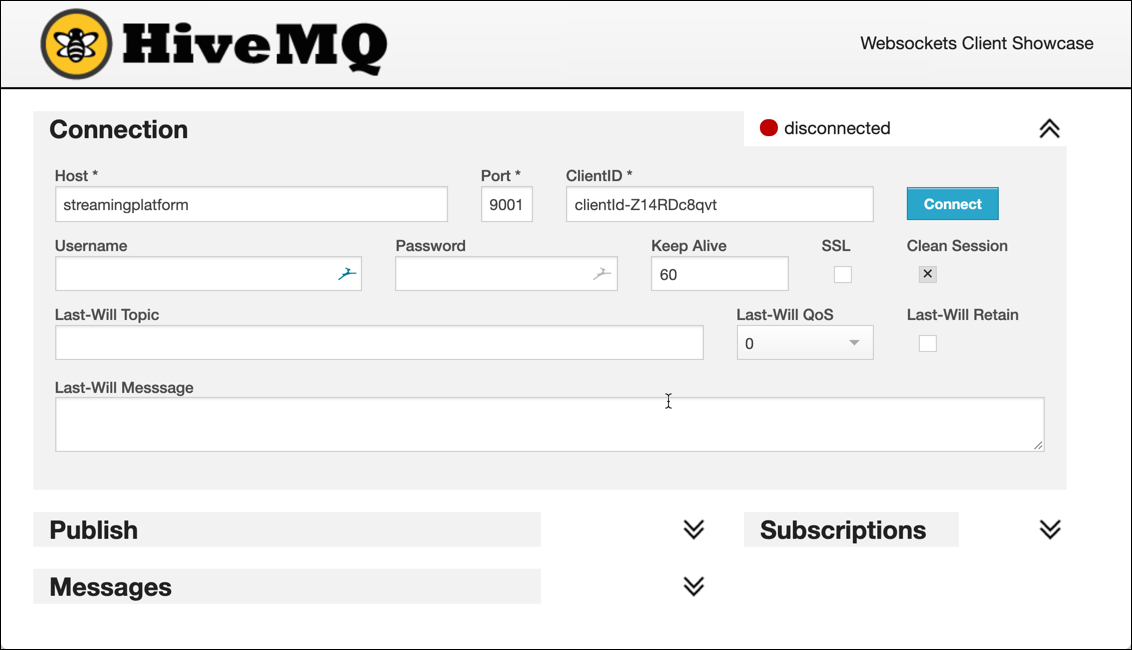
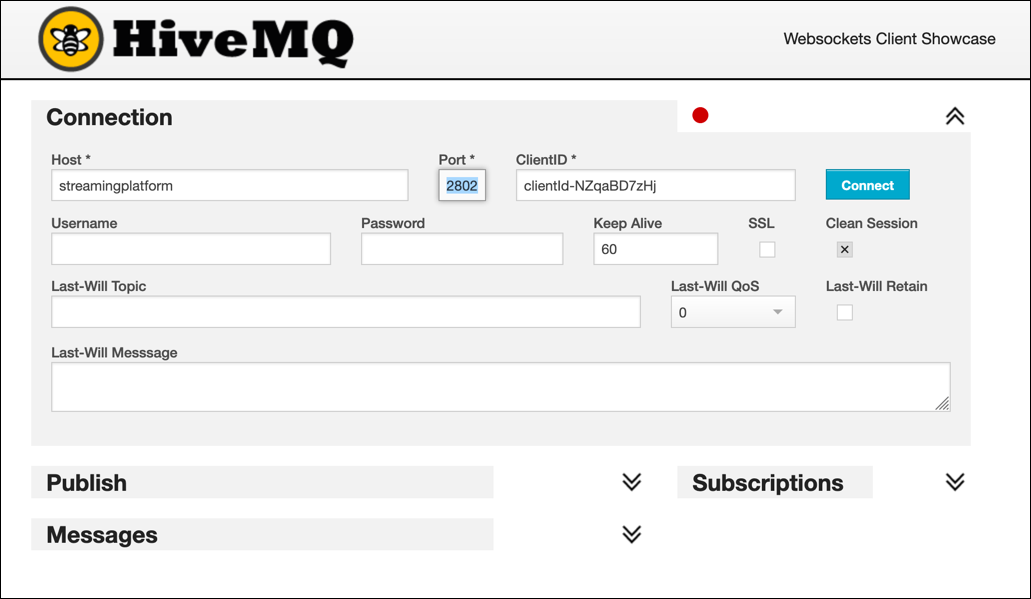
update

diff --git a/09-iot-data-ingestion-over-mqtt/README.md b/09-iot-data-ingestion-over-mqtt/README.md
@@ -7,19 +7,9 @@ The following diagram shows the setup of the data flow we will be implementing.
 
 We will not be using any real-life data, but have a program simulating some drivers and their trucks.
 
-## Adding the necessary additional services to the environment
+Our **Streaming Platform** does already provide all the services we need in this workshop, such as an **MQTT broker** and of course **Apache Kafka**. 
 
-Our **Streaming Platform** does not yet provide all the services we need in this workshop, such as an **MQTT broker**.
-
-Create a file `docker-compose.override.yml` in the `docker` folder (the same place where the `docker-compose.yml` is) and add the version and services header:
-
-```
-version: "2.0"
-
-services:
-```
-
-Now let's add the MQTT broker. Add the following two services to the `docker-compose.override.yml` file. 
+The services related to mqtt are `mosquitto-1` an easy to use MQTT broker, belonging to the [Eclipse project](https://mosquitto.org/) and `mqtt-ui`, a UI to browse into any MQTT broker. 
 
 ```
   mosquitto-1:
@@ -41,12 +31,7 @@ Now let's add the MQTT broker. Add the following two services to the `docker-com
       - "28082:80"
 ```
 
-[Mosquitto](https://mosquitto.org/) is an easy to use MQTT broker, belonging to the Eclipse project. There is a docker image available for us on Docker Hub. Just make sure that the service is configured in the `docker-compose.yml` with the volume mapping as shown below.
-Additionally, if you want to use the MQTT UI later in the workshop, you have to add it as another service (`mqtt-ui`). 
-
-Mosquitto needs to be configured, before we can use it. That's why we use the volume mapping above, to map the file `./conf/mosquitto-1.conf` into the `mosquitto-1` container. 
-
-Create a folder `conf` below the `docker` folder and in there create the `mosquitto-1.conf` file with the following content:
+The configuration of mosquitto can be found in the  `./conf/mqtt/mosquitto-1.conf` file, which is volume mapped into the `mosquitto-1` container:
 
 ```
 persistence true
@@ -58,15 +43,8 @@ listener 9001
 protocol websockets
 ```
 
-With Docker Compose, you can easily later add some new services, even if the platform is currently running. If you redo a `docker-compose up -d`, Docker Compose will check if there is a delta between what is currently running and what the `docker-compose.yml` + the 'docker-compose.override.yml` file tells. 
-
-If there is a new service added, such as here with **Mosquitto**, Docker Compose will start the service, leaving the other, already running services untouched. 
-
-If you change configuration on an already running service, then Docker will recreate that service applying the new settings. 
-
-However, removing a service from the `docker-compose.yml` will not cause a running service to be stopped and removed. You have to do that manually. 
-
 ### Using an MQTT Client
+
 In order to be able to see what we are producing into MQTT, we need something similar to the `kafkacat` and `kafka-console-consumer` utilities. 
 
 In this workshop we show two options for consuming from MQTT
@@ -79,14 +57,14 @@ In this workshop we show two options for consuming from MQTT
 To start consuming using through a command line, perform the following docker command:
 
 ```
-docker run -it --rm efrecon/mqtt-client sub -h $DOCKER_HOST_IP -t "truck/+/position" -v
+docker run -it --rm efrecon/mqtt-client sub -h $DOCKER_HOST_IP -p 28100 -t "truck/+/position" -v
 ```
 
 The consumed messages will show up in the terminal.
 
 #### Using HiveMQ Web UI  
 
-To start consuming using the MQTT UI ([HiveMQ Web UI](https://www.hivemq.com/docs/3.4/web-ui/introduction.html)), navigate to <http://streamingplatform:28082> and connect using `streamingplatform` for the **Host** field, `9001` for the **Port** field and then click on **Connect**: 
+To start consuming using the MQTT UI ([HiveMQ Web UI](https://www.hivemq.com/docs/3.4/web-ui/introduction.html)), navigate to <http://streamingplatform:28082> and connect using `streamingplatform` for the **Host** field, `28023 ` for the **Port** field and then click on **Connect**: 
 
 ![Alt Image Text](./images/mqtt-ui-connect.png "MQTT UI Connect")
 	
@@ -105,6 +83,7 @@ For simulating truck data, we are going to use a Java program (adapted from Hort
 The simulator can produce data either to a **Kafka** or **MQTT**. These two options are shown below. 
 
 Producing truck events to the MQTT broker on port 1883 is as simple as running the `trivadis/iot-truck-simulator` docker image.
+
 ```
 docker run trivadis/iot-truck-simulator '-s' 'MQTT' '-h' $DOCKER_HOST_IP '-p' '28100' '-f' 'CSV'
 ```
@@ -176,17 +155,17 @@ Navigate into the `kafka-connect` folder
 cd kafka-connect
 ```
 
-and download the `kafka-connect-mqtt-1.2.1-2.1.0-all.tar.gz` file from the [Landoop Stream-Reactor Project](https://github.com/Landoop/stream-reactor/tree/master/kafka-connect-mqtt) project.
+and download the `kafka-connect-mqtt-1.2.3-2.1.0-all.tar.gz` file from the [Landoop Stream-Reactor Project](https://github.com/Landoop/stream-reactor/tree/master/kafka-connect-mqtt) project.
 
 ```
-wget https://github.com/Landoop/stream-reactor/releases/download/1.2.1/kafka-connect-mqtt-1.2.1-2.1.0-all.tar.gz
+wget https://github.com/Landoop/stream-reactor/releases/download/1.2.3/kafka-connect-mqtt-1.2.3-2.1.0-all.tar.gz
 ```
 
 Once it is successfully downloaded, uncompress it using this `tar` command and remove the file. 
 
 ```
-mkdir kafka-connect-mqtt-1.2.1-2.1.0-all && tar xvf kafka-connect-mqtt-1.2.1-2.1.0-all.tar.gz -C kafka-connect-mqtt-1.2.1-2.1.0-all
-rm kafka-connect-mqtt-1.2.1-2.1.0-all.tar.gz
+mkdir kafka-connect-mqtt-1.2.3-2.1.0-all && tar xvf kafka-connect-mqtt-1.2.3-2.1.0-all.tar.gz -C kafka-connect-mqtt-1.2.3-2.1.0-all
+rm kafka-connect-mqtt-1.2.3-2.1.0-all.tar.gz
 ```
 
 Now let's restart Kafka connect in order to pick up the new connector. 
@@ -234,12 +213,12 @@ In the `scripts` folder, create a file `start-mqtt.sh` and add the code below.
 
 echo "removing MQTT Source Connector"
 
-curl -X "DELETE" "$DOCKER_HOST_IP:8083/connectors/mqtt-truck-position-source"
+curl -X "DELETE" "$DOCKER_HOST_IP:28013/connectors/mqtt-truck-position-source"
 
 
 echo "creating MQTT Source Connector"
 
-curl -X "POST" "$DOCKER_HOST_IP:8083/connectors" \
+curl -X "POST" "$DOCKER_HOST_IP:28013/connectors" \
      -H "Content-Type: application/json" \
      -d '{
   "name": "mqtt-truck-position-source",
@@ -267,7 +246,7 @@ Also create a separate script `stop-mqtt.sh` for just stopping the connector and
 
 echo "removing MQTT Source Connector"
 
-curl -X "DELETE" "$DOCKER_HOST_IP:8083/connectors/mqtt-source"
+curl -X "DELETE" "$DOCKER_HOST_IP: 28013/connectors/mqtt-source"
 ```
 
 

diff --git a/10-stream-processing-using-ksql/README.md b/10-stream-processing-using-ksql/README.md
@@ -1,14 +1,40 @@
-# Stream Processing using KSQL
-With the truck data continuously ingested into the `truck_movement` topic, let's perform some stream processing on the information. There are many possible solutions for performing analytics directly on the event stream. In the Kafka project, we can either use Kafka Streams or KSQL, a SQL abstraction on top of Kafka Streams. For this workshop we will be using KSQL. 
+# Stream Processing using ksqlDB
+
+With the truck data continuously ingested into the `truck_movement` topic, let's perform some stream processing on the information. There are many possible solutions for performing analytics directly on the event stream. In the Kafka project, we can either use [Kafka Streams](https://kafka.apache.org/documentation/streams/) or [ksqlDB](http://ksqldb.io), a SQL abstraction on top of Kafka Streams. 
+
+For this workshop we will be using ksqlDB. 
 
 ![Alt Image Text](./images/stream-processing-with-ksql-overview.png "Schema Registry UI")
 
-## Connect to KSQL Server
+## Connect to ksqlDB Engine
 
 In order to use KSQL, we need to connect to the KSQL engine using the KSQL CLI. An instance of a KSQL server has been started with our Streaming Platform and can be reached on port 8088.
 
 ```
-docker run -it --network docker_default confluentinc/cp-ksql-cli:5.2.1 http://ksql-server-1:8088
+docker exec -it ksqldb-cli ksql http://ksqldb-server-1:8088
+```
+
+You should see the KSQL command prompt:s
+
+```                  
+                  ===========================================
+                  =       _              _ ____  ____       =
+                  =      | | _____  __ _| |  _ \| __ )      =
+                  =      | |/ / __|/ _` | | | | |  _ \      =
+                  =      |   <\__ \ (_| | | |_| | |_) |     =
+                  =      |_|\_\___/\__, |_|____/|____/      =
+                  =                   |_|                   =
+                  =  Event Streaming Database purpose-built =
+                  =        for stream processing apps       =
+                  ===========================================
+
+Copyright 2017-2019 Confluent Inc.
+
+CLI v0.6.0, Server v0.6.0 located at http://ksqldb-server-1:8088
+
+Having trouble? Type 'help' (case-insensitive) for a rundown of how things work!
+
+ksql>
 ```
 
 We can use the show command to show topics as well as streams and tables. We have not yet created streams and tables, therefore we won't see anything. 
@@ -28,16 +54,16 @@ Before we can use a KSQL SELECT statement, we have to describe the structure of 
 ```
 DROP STREAM truck_position_s;
 
-CREATE STREAM truck_position_s \
-  (ts VARCHAR, \
-   truckId VARCHAR, \
-   driverId BIGINT, \
-   routeId BIGINT, \
-   eventType VARCHAR, \
-   latitude DOUBLE, \
-   longitude DOUBLE, \
-   correlationId VARCHAR) \
-  WITH (kafka_topic='truck_position', \
+CREATE STREAM truck_position_s 
+  (ts VARCHAR, 
+   truckId VARCHAR, 
+   driverId BIGINT, 
+   routeId BIGINT,
+   eventType VARCHAR,
+   latitude DOUBLE,
+   longitude DOUBLE,
+   correlationId VARCHAR)
+  WITH (kafka_topic='truck_position',
         value_format='DELIMITED');
 ```
 
@@ -48,15 +74,18 @@ Now with the `truck_position_s` in place, let's use the `SELECT` statement to qu
 First let's find out abnormal driver behaviour by selecting all the events where the event type is not `Normal`.
         
 ```
-SELECT * FROM truck_position_s;
+SELECT * FROM truck_position_s
+EMIT CHANGES;
 ```
 
-This is not really different to using the `kafka-console-consumer` or `kafkacat`. But of course with KSQL you can do much more. You have the power of SQL-like language at hand. 
+This is not really so much different to using the `kafka-console-consumer` or `kafkacat`. But of course with ksqlDB we can do much more. You have the power of an SQL-like language at hand. 
 
 So let's use a WHERE clause to only view the events where the event type is not `Normal`. 
 
 ```
-SELECT * FROM truck_position_s WHERE eventType != 'Normal';
+SELECT * FROM truck_position_s 
+WHERE eventType != 'Normal'
+EMIT CHANGES;
 ```
 
 It  will take much longer until we see a result, so be patient. At the end we only have a few events which are problematic!
@@ -79,10 +108,11 @@ And perform the following `kafka-topics` command creating a new `dangerous_drivi
 kafka-topics --zookeeper zookeeper:2181 --create --topic dangerous_driving_ksql --partitions 8 --replication-factor 2
 ```
 
-Now let's publish to that topic from KSQL. For that we can create a new Stream. Instead of creating it on an existing topic as we have done before, we use the `CREATE STREAM ... AS SELECT ...` variant. 
+Now let's publish to that topic from ksqlDB. For that we can create a new Stream. Instead of creating it on an existing topic as we have done before, we use the `CREATE STREAM ... AS SELECT ...` variant. 
 
 ```
 DROP STREAM dangerous_driving_s;
+
 CREATE STREAM dangerous_driving_s \
   WITH (kafka_topic='dangerous_driving_ksql', \
         value_format='DELIMITED', \
@@ -104,7 +134,8 @@ DESCRIBE dangerous_driving_s;
 We can use this new stream for further processing, just as we have used the `truck_position_s` stream. 
 
 ```
-SELECT * FROM dangerous_driving_s;
+SELECT * FROM dangerous_driving_s
+EMIT CHANGES;
 ```
 
 Now let's see that we actually produce data on that new topic by running a `kafka-console-consumer` or alternatively a `kafkacat`.
@@ -120,19 +151,12 @@ kafka-console-consumer --bootstrap-server broker-1:9092 \
 
 You should see the abnormal driving behaviour as before in the KSQL shell.        
 
-### How many abnormal events do we get per 20 seconds 
-
-```
-SELECT count(*) 
-FROM dangerous_driving_s 
-WINDOW TUMBLING (size 20 seconds) 
-```
-
 ### How many abnormal events do we get per 20 seconds
 
 ```
 SELECT eventType, count(*) 
 FROM dangerous_driving_s 
 WINDOW TUMBLING (size 20 seconds) 
-GROUP BY eventType;
+GROUP BY eventType
+EMIT CHANGES;
 ```
